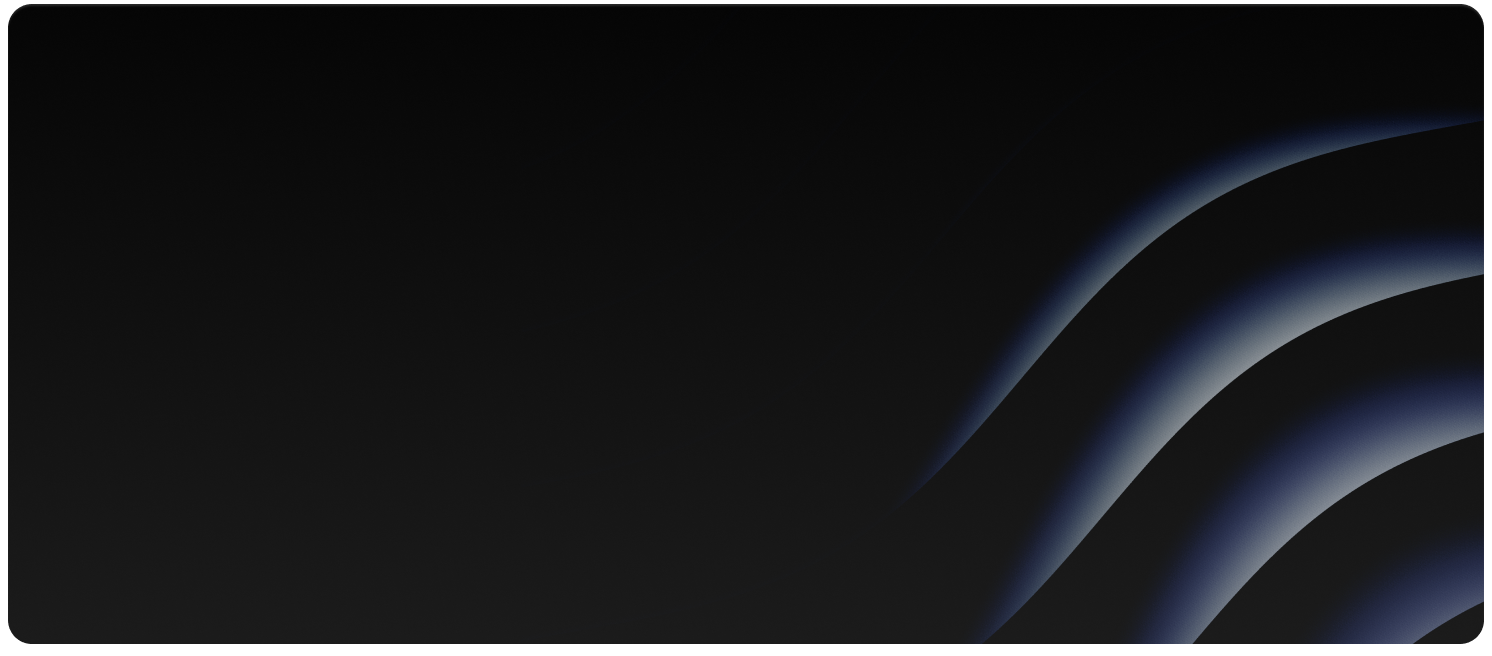
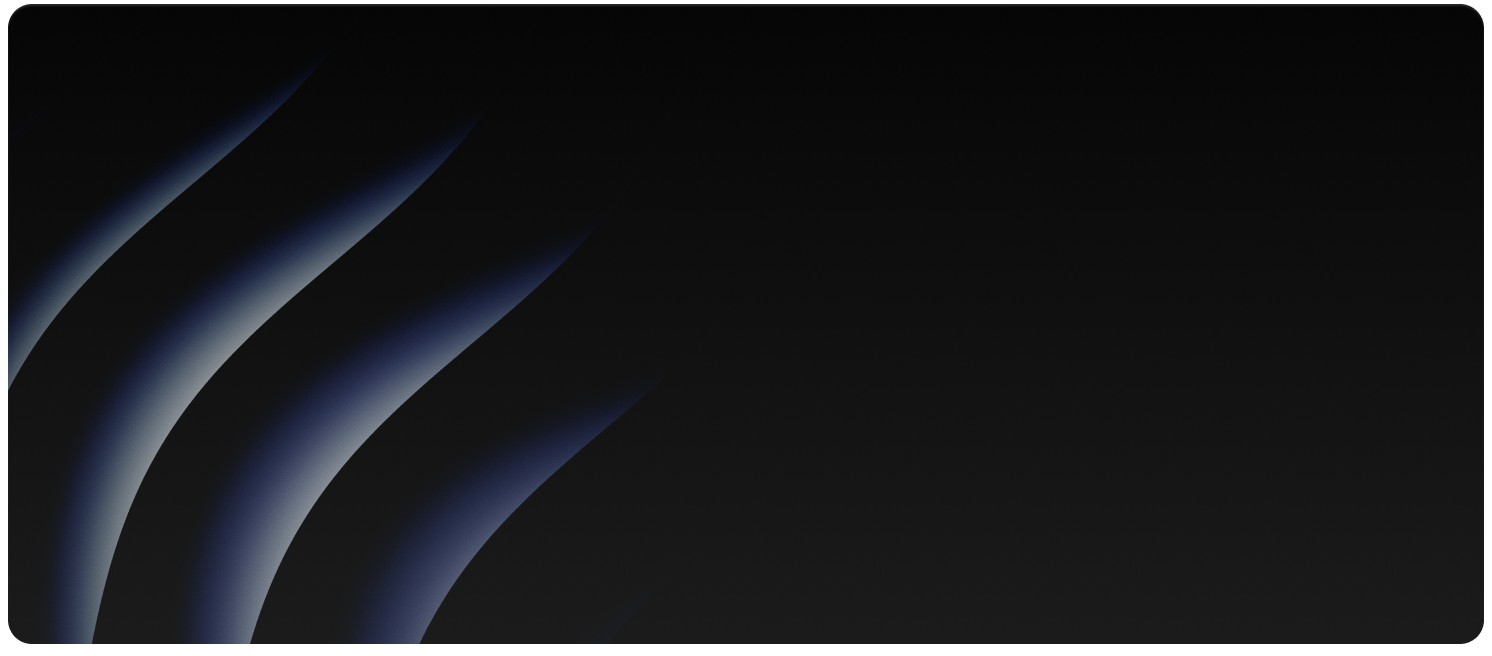
Add background images to Agentic AI and Voice AI tech cards
- tech-bg-agentic.png: curved wave design (bottom-right) for Agentic AI card
- tech-bg-voice.png: curved wave design (top-left) for Voice AI card
- Both cards use background-size: cover / background-position: center

diff --git a/home.css b/home.css
@@ -520,6 +520,9 @@
   flex-direction: column;
   grid-column: 2 / 4;
   grid-row: 1;
+  background-image: url('assets/tech-bg-agentic.png');
+  background-size: cover;
+  background-position: center;
 }
 .hp-tech__card--agentic .hp-tech__card-text {
   flex: 1;
@@ -542,6 +545,9 @@
   flex-direction: column;
   grid-column: 2 / 4;
   grid-row: 2;
+  background-image: url('assets/tech-bg-voice.png');
+  background-size: cover;
+  background-position: center;
 }
 .hp-tech__card--voice .hp-tech__card-text {
   flex: 1;
